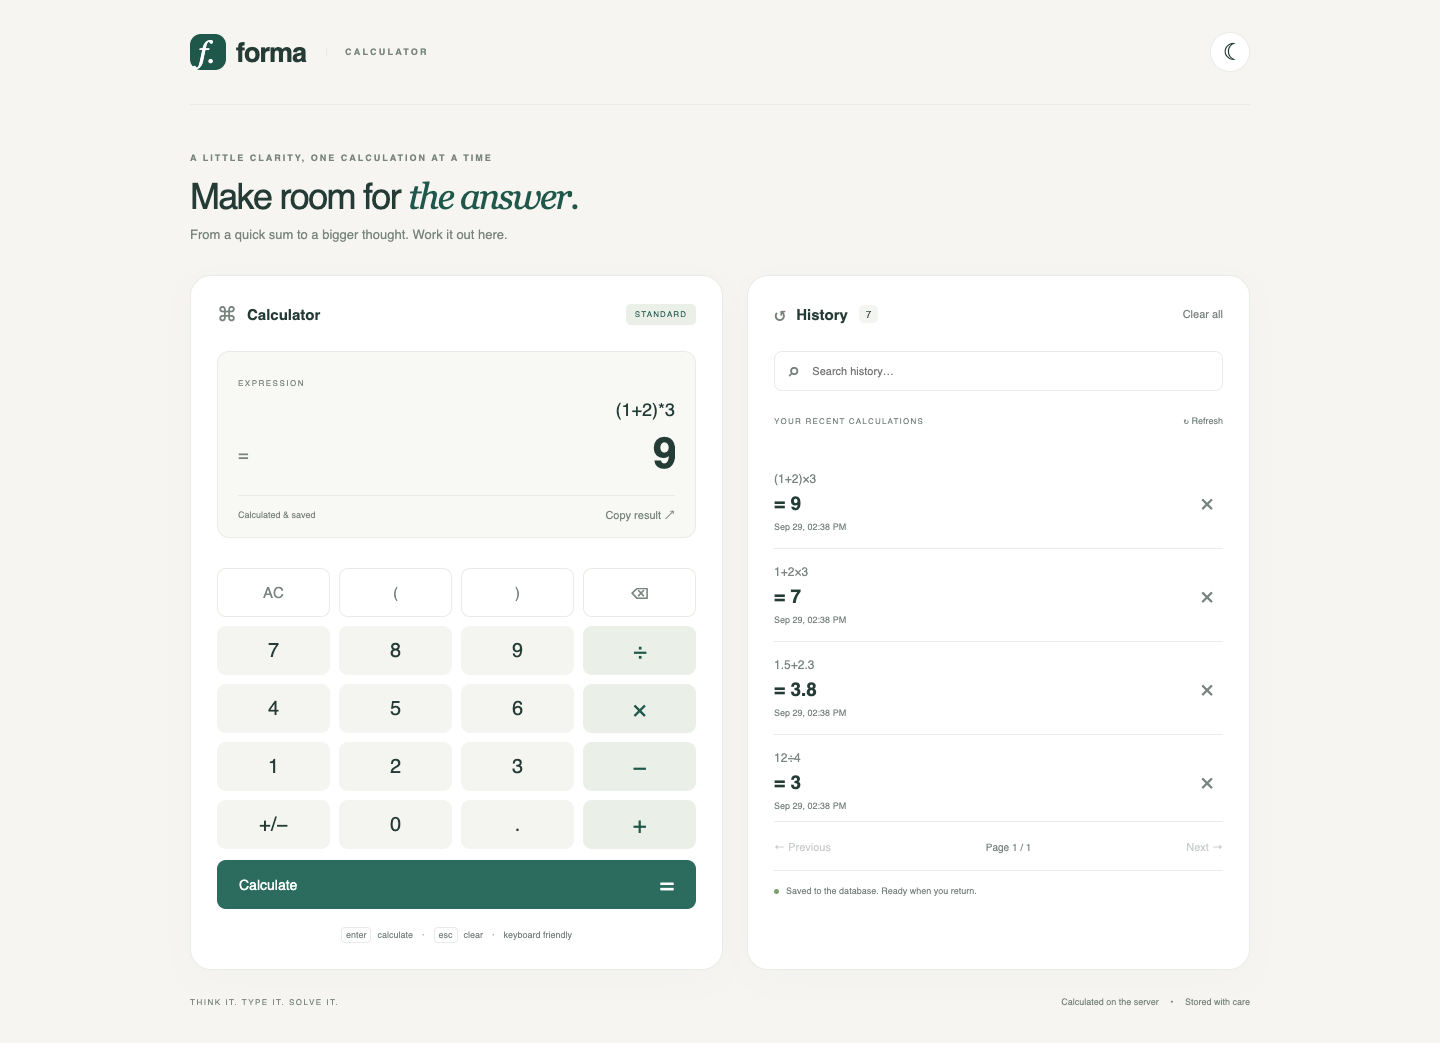
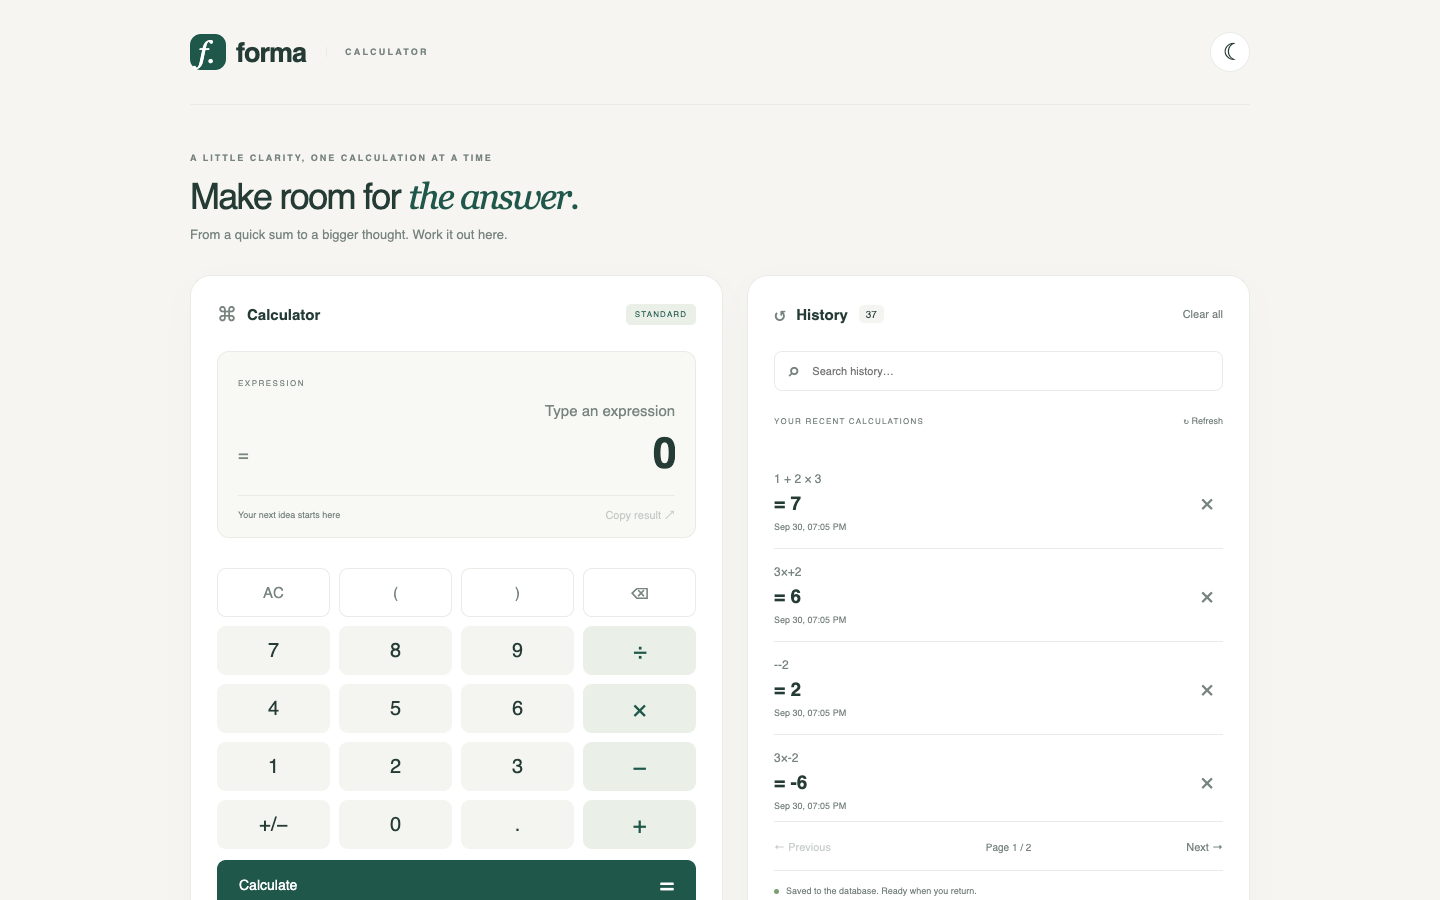
Finalize production documentation and screenshots

diff --git a/README.md b/README.md
@@ -1,21 +1,24 @@
-# 832402107_calculator_frontend · Forma Calculator
+# Forma Calculator · 832402107_calculator_frontend
 
-A responsive Vite + vanilla JavaScript calculator for **832402107 · Yuhe Jiang**.
-FZU ID: 832402107 · Maynooth University Student ID (MUID): 24125342 · Name: Yuhe Jiang.
+Yuhe Jiang · FZUID 832402107 · MUID 24125342
 
-Repository: Pending publication
+A responsive calculator built with Vite and vanilla JavaScript. Expressions are calculated by the separate FastAPI backend; history is stored in the backend database.
 
-## Features
+## Public links
 
-Four-operation expression entry, parentheses, unary signs and decimals; server-calculated results; searchable paginated database history; delete and confirmed clear-all; keyboard shortcuts; persistent light/dark preference; copy result; history reuse; loading and accessible inline errors.
+- [Live calculator](https://832402107-calculator-frontend-67ak.vercel.app)
+- [Frontend repository](https://github.com/yuhejiang929-cmd/832402107_calculator_frontend) · [Backend repository](https://github.com/yuhejiang929-cmd/832402107_calculator_backend)
+- [Backend API](https://832402107-calculator-backend.vercel.app) · [Swagger](https://832402107-calculator-backend.vercel.app/docs) · [Health](https://832402107-calculator-backend.vercel.app/api/health)
 
-## Stack and architecture
+## Features and architecture
 
-Vite, JavaScript ES modules, semantic HTML and CSS variables. Native `fetch` is the only calculation path. The browser edits text and displays the API result; it never evaluates arithmetic. The FastAPI implementation belongs in a separate repository.
+Basic arithmetic, precedence, nested parentheses, decimals and unary signs; expression input and keypad; readable errors; persistent history with search, pagination, single deletion and confirmed clear-all. Additional features include keyboard input, copy result, expression reuse, and persistent light/dark preference.
+
+Browser → **Vercel Vite frontend** → HTTPS JSON → **Vercel FastAPI backend** → SQLAlchemy/psycopg → **Neon PostgreSQL**. Frontend code only edits strings and displays the returned result. Blocking the calculation API produces the backend-unavailable message and `—`, never a locally computed answer. Only the theme preference uses localStorage.
 
 ## Local setup
 
-Install Node.js 22.12+ (tested: 24.19.0) and npm. Start the backend separately on port 8000.
+Node.js 22.12+ and npm are required; tested with Node 24.19.0. Start the backend on port 8000, then run from this repository:
 
 ```bash
 npm ci
@@ -23,9 +26,7 @@ cp .env.example .env
 npm run dev
 ```
 
-Open http://localhost:5173. `.env` uses `VITE_API_BASE_URL=http://localhost:8000`. This value is public build-time configuration, never a place for credentials.
-
-## Build, tests, formatting
+Open http://localhost:5173. For local development set `VITE_API_BASE_URL=http://localhost:8000`. This is a public build-time API address, never a credential. Production uses `VITE_API_BASE_URL=https://832402107-calculator-backend.vercel.app`. Changing it requires rebuilding/redeploying.
 
 ```bash
 npm test
@@ -34,61 +35,38 @@ npm run build
 npm run preview
 ```
 
-`dist/` is the static deployment output. Without an explicit API URL, production uses same-origin `/api` (requires a reverse proxy); only development defaults to localhost. Set `VITE_API_BASE_URL` **before** building; rebuild after changing it. Serve over HTTPS and configure the exact frontend origin in the backend's `FRONTEND_ORIGINS`. To call the backend from the default preview port, include `http://localhost:4173` and/or `http://127.0.0.1:4173` in that setting.
-
-## Project structure
-
-| Module | Responsibility |
-|---|---|
-| `src/main.js` | Compose modules |
-| `src/api.js` | JSON API requests, timeouts and readable errors |
-| `src/calculator.js` | Text editing, request state, server result display |
-| `src/expression.js` | Display operators and predictable sign text transformation |
-| `src/history.js` | Database-backed listing, search, pagination and deletion |
-| `src/keyboard.js` | Keyboard input without interfering with search or dialogs |
-| `src/theme.js` | Theme selection; the only use of localStorage |
-| `src/styles.css` | Responsive layout, CSS variables and focus styles |
-
-## Usage
-
-Type an expression or click buttons. Enter / `=` submits; Escape clears; Backspace edits. Click a history item to reuse its expression. For a plain number, `+/−` toggles its leading minus; for a compound expression it wraps the entire text in `-(...)`. It does not calculate or guess the current operand. Unary signs, parentheses and precedence are handled on the server. Expressions are limited to 200 characters.
-
-Repeated submissions are blocked while a request is running. If the text changes during a request, the old result is not displayed against the new expression. History data always comes from the API; refresh and browser reopen preserve it because the database persists.
-
-## Backend API
-
-| Method | Endpoint | Purpose |
-|---|---|---|
-| GET | `/api/health` | Service/database health |
-| POST | `/api/calculate` | `{ "expression": "(1+2)*3" }` → result `"9"` |
-| GET | `/api/history?page=1&page_size=20&search=` | Newest-first history |
-| DELETE | `/api/history/{id}` | Delete actual record |
-| DELETE | `/api/history` | Clear shared history after confirmation |
-
-## Verification
-
-Two unit tests pass and the production build passes. The complete assignment contains `scripts/browser_acceptance.mjs`: real Chrome tests use isolated ports 8011/5175 and an isolated SQLite database, save 24 screenshots, and actually stop/restart servers. Run from the assignment root with `node scripts/browser_acceptance.mjs`; both repositories and an installed Chrome are required. See the accompanying submission evidence for the actual checks.
+Build output is `dist/`. A production build without an explicit API URL uses same-origin `/api`; only development defaults to localhost. Configure the backend's `FRONTEND_ORIGINS` for the exact browser origin. Preview uses port 4173 by default and needs its own allowed origin for local integration.
 
 ## Deployment
 
-Upload `dist/` to any static host (build `npm ci && npm run build`, publish `dist`). `netlify.toml` is an optional provider example. Set `VITE_API_BASE_URL` to the public HTTPS backend URL and redeploy. Current deployment: Pending public deployment.
+The production frontend is on Vercel: Vite preset, build `npm run build`, output `dist`, and the production API URL above. All public requests use HTTPS. `netlify.toml` remains an optional static-host configuration; it is not the deployed service configuration.
 
-## Limitations
+## Modules and usage
 
-This coursework uses one shared history database, without user accounts. Clear-all applies to everyone using that backend. Clipboard access requires a secure browser context. No frontend arithmetic fallback exists when the backend is offline. Fonts use local system fallbacks so the calculator does not depend on external font services.
+| File | Responsibility |
+|---|---|
+| `src/api.js` | Fetch, JSON/204 handling, 12-second timeout and network errors |
+| `src/calculator.js` | Text editing, loading state, duplicate prevention and stale-result protection |
+| `src/expression.js` | Display operators and sign text transformation |
+| `src/history.js` | API history, debounced search, pagination, deletion and clear confirmation |
+| `src/keyboard.js` | Keyboard events without interfering with other controls |
+| `src/theme.js` | Theme preference |
+| `src/styles.css` | Responsive layout, theme tokens and focus styles |
 
-Code conventions: [codestyle.md](codestyle.md).
+Enter or `=` submits; Escape clears; Backspace edits. `+/−` toggles a number's sign or wraps a compound expression in `-(...)`. Selecting a history row reuses its text. The backend interprets all operators. Input is limited to 200 characters.
+
+## Verification
+
+Final audit: **2 unit tests passed**, Vite build passed, and Prettier check passed. The complete submission includes `scripts/browser_acceptance.mjs`, which passed **32 checks** using an isolated database and ports 8011/5175. It checks actual process restarts, error states, blocked backend requests, clipboard, history and responsive behavior. The separate production audit and final screenshots are supplied in the submission materials.
 
 ## Screenshots
 
-![Desktop calculator](docs/desktop.png)
+![Production desktop](docs/desktop.png)
 
-![Mobile layout](docs/mobile.png)
+![Production mobile](docs/mobile.png)
 
-## Troubleshooting
+## Limits and troubleshooting
 
-- If calculation fails, visit the backend `/api/health` and check that the backend is running.
-- If the browser reports CORS, add its exact origin (including port) to `FRONTEND_ORIGINS` and restart the backend.
-- `VITE_API_BASE_URL` is read at build/start time; restart Vite or rebuild after editing it.
-- HTTPS pages require an HTTPS API. `localhost` in a deployed build refers to the visitor's machine.
-- Theme preference is optional; disabling localStorage does not disable the calculator.
+History is shared by all visitors; there are no accounts or per-user permissions. Clear-all affects the shared backend. Clipboard requires a secure browser context and browser permission. If requests fail, check the API health URL, exact CORS origin and build-time API URL. No frontend calculation fallback exists. System fonts avoid external font dependencies.
+
+Code conventions: [codestyle.md](codestyle.md).
